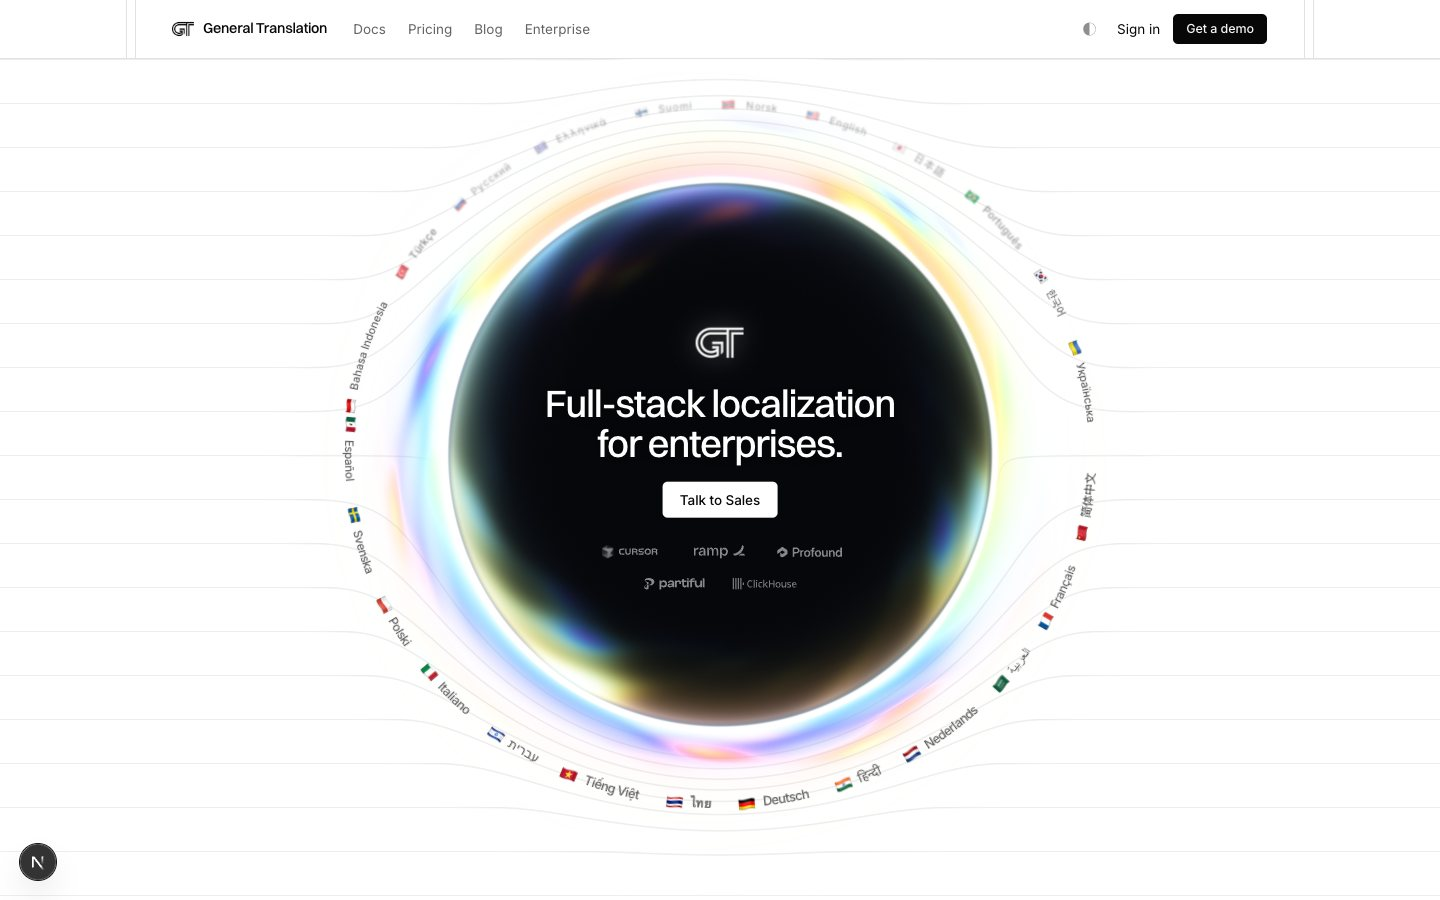
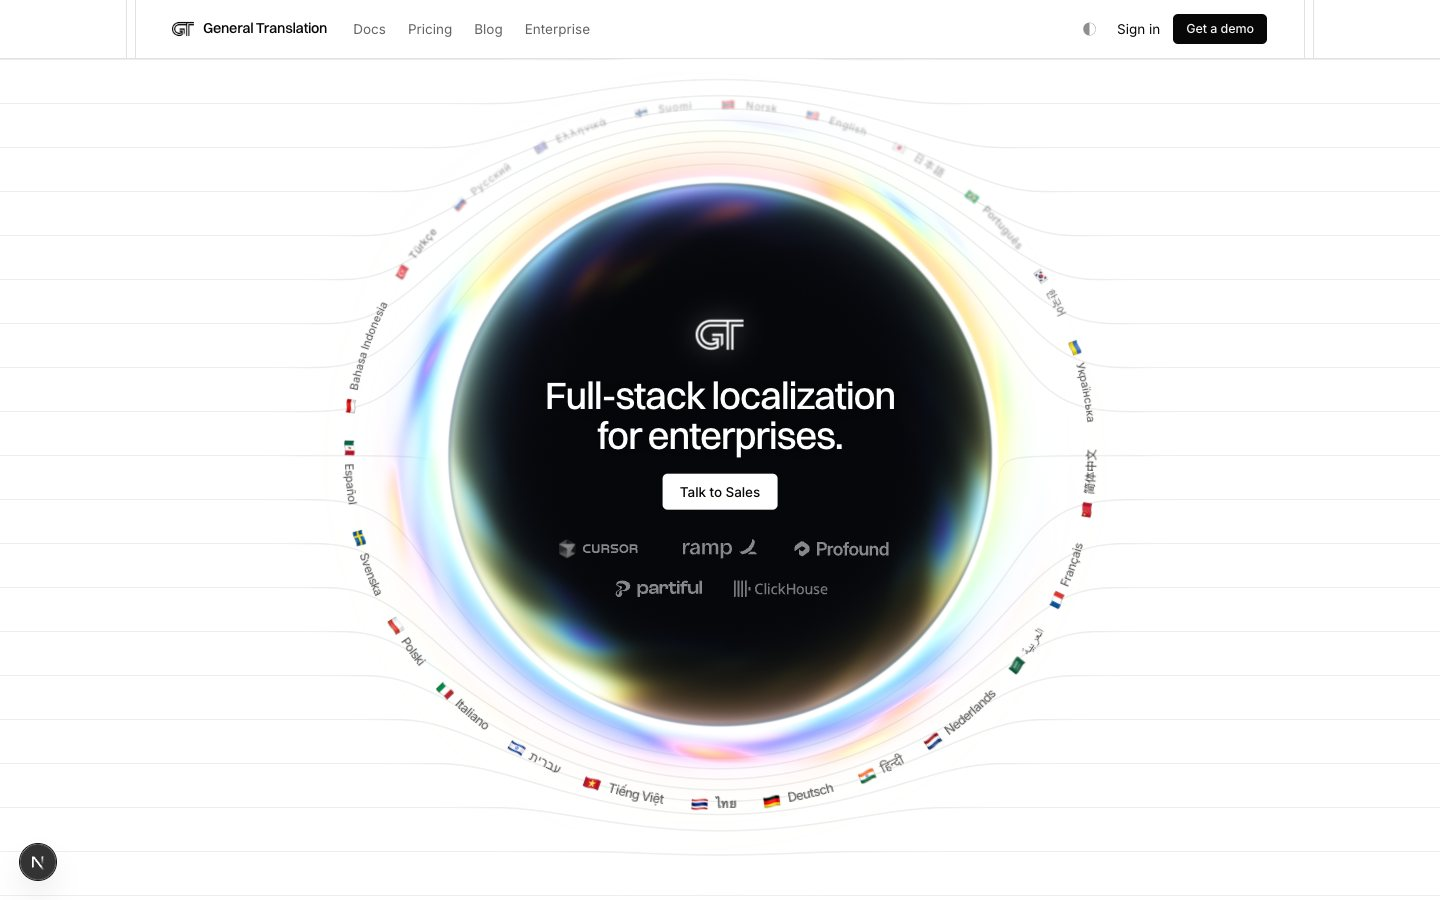
symmetric seats: the gap holds through every roll
The uneven space between neighbours (Deutsch → ไทย) was a roll-state
artifact: a word's flag end reached ~25px further than its letter end,
so when the word ahead had flipped and the one behind had not, the gap
between them grew by the asymmetry. Every word's offsets now shift by
half the flag overhang so its extents are symmetric around the seat —
identical footprint in both mirror states, and the packed gap holds
constant through every crossing. The core customer marks grow to 96px.

diff --git a/src/app/d/singularity/sections/Hero.tsx b/src/app/d/singularity/sections/Hero.tsx
@@ -229,9 +229,19 @@ export default function Hero() {
           /* the flag is the word's first glyph: it sits one seat BEFORE the
              first letter and mirrors with them, so it is always to the left
              of the text in the text's own reading frame */
-          if (word.flag) word.flag.off = -(total / 2 + FLAG_PAD + 8);
-          word.lead = total / 2 + FLAG_PAD + 16;
-          word.span = word.lead + total / 2;
+          const fw = word.flag ? word.flag.el.offsetWidth || 16 : 0;
+          if (word.flag) word.flag.off = -(total / 2 + FLAG_PAD + fw / 2);
+          /* SYMMETRIC extents: the flag end reaches further than the letter
+             end, so every offset shifts by half that difference — the word
+             then occupies ±span/2 around its seat in BOTH mirror states,
+             and the packed gaps hold constant through every roll. */
+          const leadExtent = total / 2 + FLAG_PAD + fw;
+          const trailExtent = total / 2;
+          const shift = (leadExtent - trailExtent) / 2;
+          for (const g of word.glyphs) g.off += shift;
+          if (word.flag) word.flag.off += shift;
+          word.span = leadExtent + trailExtent;
+          word.lead = word.span / 2;
         }
       };
 

diff --git a/src/app/d/singularity/styles.css b/src/app/d/singularity/styles.css
@@ -4864,20 +4864,20 @@
    core under the CTAs. The core is ink in both themes, so the dark-surface
    wordmark variants are the only ones that ever load. */
 .singularity-root .eh-core-logos {
-  margin-top: 26px;
+  margin-top: 28px;
   display: flex;
   align-items: center;
   justify-content: center;
-  gap: 18px 22px;
+  gap: 20px 26px;
   flex-wrap: wrap;
   /* three marks to the first row, two to the second */
-  max-width: 300px;
+  max-width: 400px;
 }
 
 .singularity-root .eh-corewm {
   display: block;
-  width: 68px;
-  height: 14px;
+  width: 96px;
+  height: 20px;
   overflow: hidden;
   text-indent: -999px;
   opacity: 0.52;
